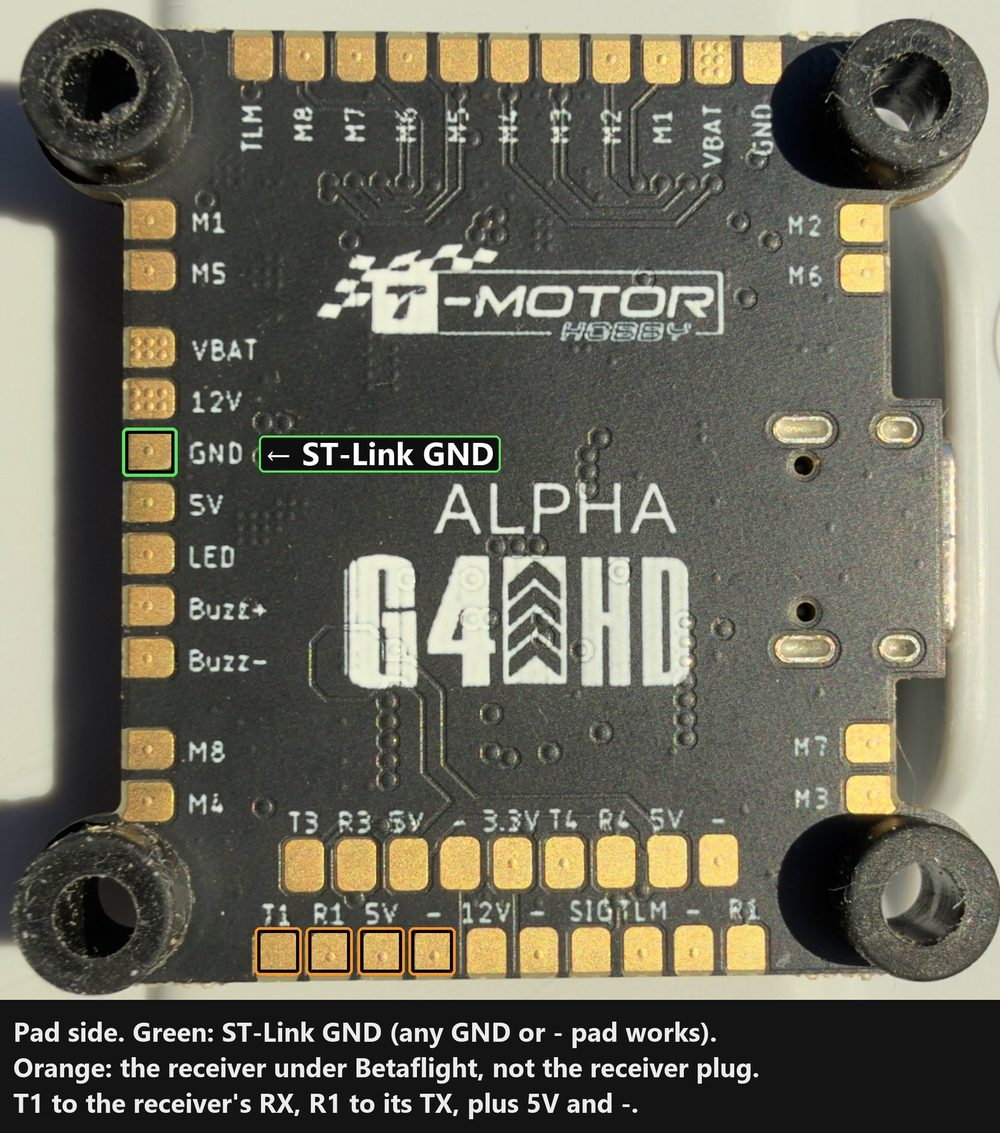
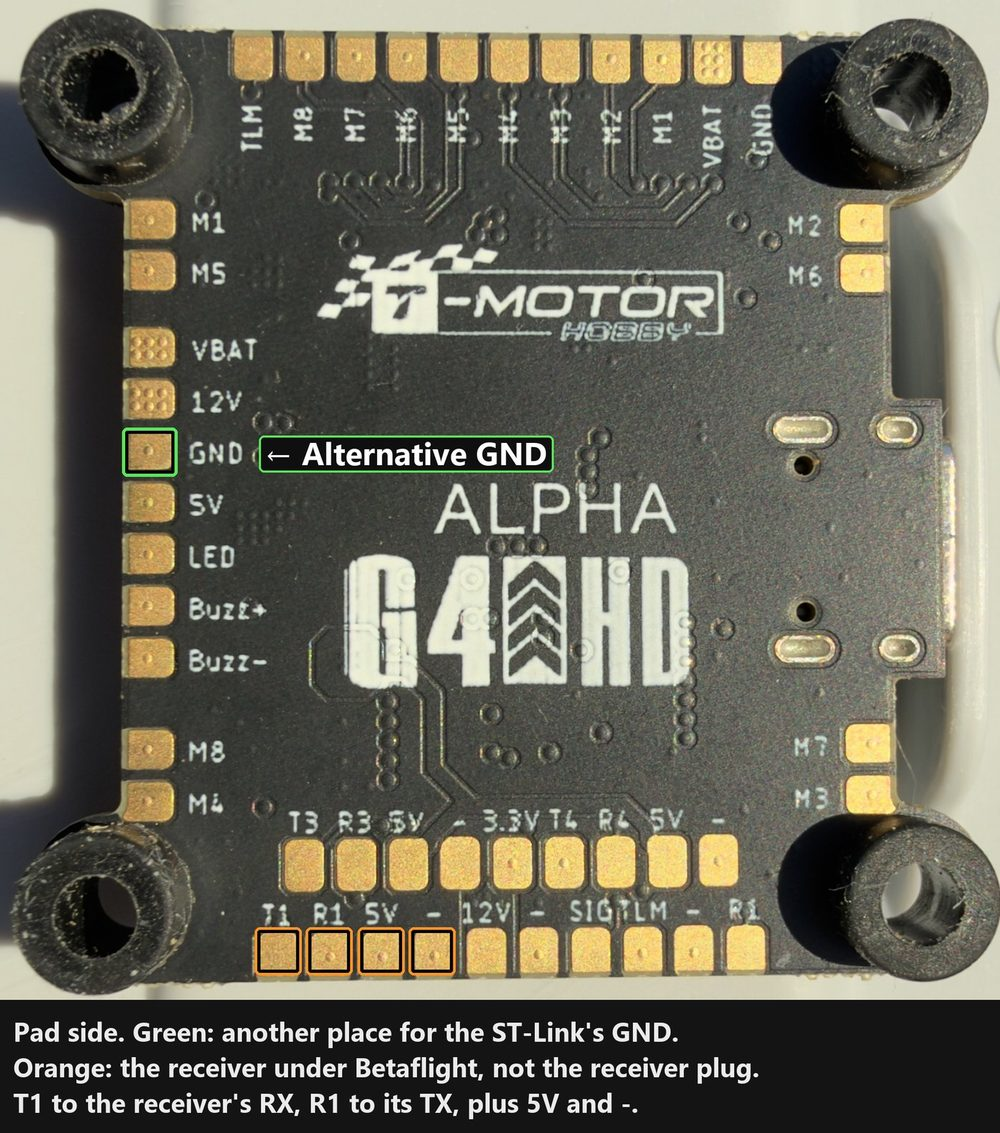
feat(alpha): wiring guide fixes and free steps
Mark the GND pad on the component side's right edge in the wiring
photo, so all three ST-Link wires go on one side; the pad side's GND
stays as the alternative. The reset button moves to its own photo,
shown only when a hot-plug connect fails, with a retry without reset.

The intro lists what the HD board gives up: the receiver plug for
CRSF, DShot2400, and Alpha itself. The ST-Link step says up front
that the board needs USB power. Captions repeat the receiver wiring.

The stage numbers are now buttons and Continue no longer waits for
the ticks. Stages that work on the chip open only once reached on the
connected chip; the saved report and the typed ERASE still gate the
one-way step.

Claude-Session: https://claude.ai/code/session_019xFnVzNtdhiGqPTavkXxX9

Changed region(s): [[0.31, 0.3707, 0.558, 0.4325], [0.217, 0.8959, 0.713, 0.9267]]

diff --git a/apps/web/src/views/AlphaView.vue b/apps/web/src/views/AlphaView.vue
@@ -1,7 +1,7 @@
 <script setup lang="ts">
 import { ALPHA_BOARDS, ALPHA_TEXTS, type AlphaText } from "@bf-migrate/core";
 import { CircleAlert, CircleCheck, Cpu, FlaskConical, LoaderCircle, Upload } from "lucide-vue-next";
-import { computed, onBeforeUnmount, ref, watch } from "vue";
+import { computed, onBeforeUnmount, ref, shallowRef, watch } from "vue";
 import { ALPHA_PHOTOS } from "../data/alpha-photos";
 import { DEMO_SCENARIOS, createDemoSource, type DemoScenarioId } from "../demo/alpha-probe";
 import { demoAlphaFirmware } from "../demo/alpha-firmware";
@@ -29,9 +29,16 @@ const STAGES: { label: string; steps: AlphaStep[] }[] = [
 ];
 
 const stageIndex = computed(() => STAGES.findIndex((stage) => stage.steps.includes(alpha.step)));
+const PROBE_STAGE = STAGES.findIndex((stage) => stage.steps.includes("probe"));
+/** Steps that must finish before the pilot can go anywhere else. */
+const BUSY: readonly AlphaStep[] = ["connecting", "working"];
+
+/** The furthest stage reached since the chip was last read. Reading a chip again starts it over. */
+const reached = shallowRef<{ readings: unknown; index: number }>({ readings: undefined, index: 0 });
 
 const introChecked = ref(false);
-const wiringChecks = ref<boolean[]>([]);
+// The ticks are the pilot's own checklist: kept when moving between steps, and never required.
+const wiringChecks = ref<boolean[]>(ALPHA_TEXTS.wiring.checks.map(() => false));
 const typed = ref("");
 const scenario = ref<DemoScenarioId>(DEMO_SCENARIOS[0]!.id);
 const resetHeld = ref(false);
@@ -41,15 +48,55 @@ const fileInput = ref<HTMLInputElement>();
 watch(
   () => alpha.step,
   (step) => {
-    if (step === "intro") introChecked.value = false;
-    if (step === "wiring") wiringChecks.value = ALPHA_TEXTS.wiring.checks.map(() => false);
     if (step === "unlock") typed.value = "";
     if (step !== "hold-reset" && step !== "connecting") resetHeld.value = false;
   },
   { immediate: true },
 );
 
-const wiringDone = computed(() => wiringChecks.value.length > 0 && wiringChecks.value.every(Boolean));
+watch(
+  [() => alpha.step, () => alpha.readings],
+  ([, readings]) => {
+    const same = reached.value.readings === readings;
+    reached.value = { readings, index: same ? Math.max(reached.value.index, stageIndex.value) : stageIndex.value };
+  },
+  { immediate: true },
+);
+
+/**
+ * The stages up to choosing the ST-Link always open. The later ones work on the connected
+ * chip, so they open only once the flow has reached them on that chip, and Unlock only while
+ * the chip is still locked.
+ */
+function canOpen(index: number): boolean {
+  if (index === stageIndex.value || BUSY.includes(alpha.step)) return false;
+  if (index <= PROBE_STAGE) return true;
+  if (!alpha.session || index > reached.value.index) return false;
+  return !STAGES[index]!.steps.includes("unlock") || locked.value;
+}
+
+function openStage(index: number): void {
+  const first = STAGES[index]?.steps[0];
+  if (first && canOpen(index)) alpha.goTo(first);
+}
+
+function stageState(index: number): "current" | "open" | "closed" {
+  if (index === stageIndex.value) return "current";
+  return canOpen(index) ? "open" : "closed";
+}
+
+const wiringDone = computed(() => wiringChecks.value.every(Boolean));
+
+/** Continue never waits for the ticks. A confirmation is recorded only when they were ticked. */
+function leaveIntro(): void {
+  if (introChecked.value) alpha.confirm("intro");
+  alpha.goTo("variant");
+}
+
+function leaveWiring(): void {
+  if (wiringDone.value) alpha.confirm("wiring");
+  alpha.goTo("probe");
+}
 const percent = computed(() => (alpha.progress && alpha.progress.total ? Math.round((alpha.progress.done / alpha.progress.total) * 100) : undefined));
 const usbPercent = computed(() => (alpha.usbProgress?.total ? Math.round((alpha.usbProgress.done / alpha.usbProgress.total) * 100) : undefined));
 const locked = computed(() => alpha.classification?.kind === "locked");
@@ -129,16 +176,23 @@ function kb(bytes: number): string {
     </div>
 
     <ol class="stages" aria-label="Progress">
-      <li v-for="(stage, index) in STAGES" :key="stage.label" :data-state="index < stageIndex ? 'done' : index === stageIndex ? 'current' : 'todo'">{{ stage.label }}</li>
+      <li v-for="(stage, index) in STAGES" :key="stage.label">
+        <button type="button" class="stage" :data-state="stageState(index)" :aria-current="index === stageIndex ? 'step' : undefined" :disabled="!canOpen(index)" @click="openStage(index)">{{ stage.label }}</button>
+      </li>
     </ol>
 
     <!-- 1. Before you start -->
     <section v-if="alpha.step === 'intro'" class="card step">
       <h2>{{ ALPHA_TEXTS.intro.title }}</h2>
       <p v-for="text in paragraphs(ALPHA_TEXTS.intro)" :key="text">{{ text }}</p>
+      <h3 class="gives-up">{{ ALPHA_TEXTS.givesUp.title }}</h3>
+      <p>{{ ALPHA_TEXTS.givesUp.paragraphs[0] }}</p>
+      <ul>
+        <li v-for="text in ALPHA_TEXTS.givesUp.paragraphs.slice(1)" :key="text">{{ text }}</li>
+      </ul>
       <label class="check"><input v-model="introChecked" type="checkbox" /> {{ ALPHA_TEXTS.intro.checks[0] }}</label>
       <div class="actions">
-        <button class="btn btn-primary" :disabled="!introChecked" @click="alpha.confirm('intro'), alpha.goTo('variant')">Continue</button>
+        <button class="btn btn-primary" @click="leaveIntro()">Continue</button>
       </div>
     </section>
 
@@ -165,13 +219,17 @@ function kb(bytes: number): string {
       </div>
       <label v-for="(text, index) in ALPHA_TEXTS.wiring.checks" :key="text" class="check"><input v-model="wiringChecks[index]" type="checkbox" /> {{ text }}</label>
       <div class="actions">
-        <button class="btn btn-primary" :disabled="!wiringDone" @click="alpha.confirm('wiring'), alpha.goTo('probe')">Continue</button>
+        <button class="btn btn-primary" @click="leaveWiring()">Continue</button>
       </div>
     </section>
 
     <!-- 3. ST-Link -->
     <section v-else-if="alpha.step === 'probe'" class="card step">
       <h2>{{ ALPHA_TEXTS.probe.title }}</h2>
+      <div class="notice notice-warn power">
+        <CircleAlert :size="18" />
+        <span><strong>{{ ALPHA_TEXTS.usbPower.title }}</strong> {{ ALPHA_TEXTS.usbPower.paragraphs[0] }}</span>
+      </div>
       <p v-for="text in paragraphs(ALPHA_TEXTS.probe)" :key="text">{{ text }}</p>
       <div class="actions">
         <button class="btn btn-primary" :disabled="!isWebUsbAvailable()" @click="selectStlink()">Select ST-Link</button>
@@ -204,6 +262,7 @@ function kb(bytes: number): string {
       <div class="actions">
         <button v-if="alpha.simulated" class="btn" :disabled="resetHeld" @click="pressReset()">{{ resetHeld ? "Holding the reset button" : "Press and hold reset (simulated)" }}</button>
         <button class="btn btn-primary" :disabled="alpha.simulated && !resetHeld" @click="alpha.connect('holdReset')">Connect</button>
+        <button class="btn" :disabled="resetHeld" @click="alpha.connect('hotplug')">Try again without reset</button>
       </div>
     </section>
 
@@ -370,25 +429,45 @@ function kb(bytes: number): string {
 }
 
 .stages li {
-  padding: 0.25rem 0.6rem;
-  border: 1px solid var(--border);
-  border-radius: 999px;
-  color: var(--muted);
   counter-increment: stage;
 }
 
-.stages li::before {
+.stage {
+  padding: 0.25rem 0.6rem;
+  border: 1px solid var(--border);
+  border-radius: 999px;
+  background: none;
+  color: var(--muted);
+  font: inherit;
+  cursor: default;
+}
+
+.stage::before {
   content: counter(stage) ". ";
 }
 
-.stages li[data-state="current"] {
+.stage[data-state="current"] {
   border-color: var(--accent);
   color: var(--text);
   font-weight: 600;
 }
 
-.stages li[data-state="done"] {
+.stage[data-state="open"] {
   color: var(--text);
+  cursor: pointer;
+}
+
+.stage[data-state="open"]:hover {
+  border-color: var(--accent);
+}
+
+.gives-up {
+  margin: 0.9rem 0 0.4rem;
+  font-size: 1rem;
+}
+
+.power {
+  margin: 0 0 0.75rem;
 }
 
 .step h2 {

diff --git a/packages/core/src/alpha/alpha.ts b/packages/core/src/alpha/alpha.ts
@@ -271,15 +271,26 @@ export const ALPHA_TEXTS = {
     ],
     checks: ["I understand that one step cannot be undone, and that this board will never run Alpha again."],
   },
+  givesUp: {
+    id: "C1b",
+    version: 1,
+    title: "What the HD board gives up",
+    paragraphs: [
+      "Most of the board carries over: OSD, power and SBUS on the DJI plug, ESC telemetry, the LED strip and the beeper. What you lose:",
+      "The receiver plug, for a CRSF or ELRS receiver. Alpha reads the receiver in software on a pin with no serial port, which Betaflight cannot do. Under Betaflight the receiver goes on the T1 and R1 pads.",
+      "DShot2400. Betaflight's RPM filtering needs bidirectional DShot, which on this chip runs at DShot300 with a 4 kHz PID loop.",
+      "Alpha itself: its configurator, its updates and any way back.",
+    ],
+  },
   wiring: {
     id: "C2",
-    version: 1,
+    version: 2,
     title: "Wire the ST-Link",
-    paragraphs: ["Tick each step when it is done."],
+    paragraphs: ["Tick each step off as you go, if it helps. Continue does not wait for the ticks."],
     checks: [
-      "Unplug the battery. Power the board from its USB-C only.",
+      "Unplug the battery. The board runs from its USB-C for the whole job.",
       "Unplug the receiver and the DJI cable. The ST-Link's clock wire uses the same pin as the receiver's signal and the DJI SBUS wire.",
-      "Solder GND first. Then ST-Link SWCLK to the lower gold pad beside the USB-C socket, and SWDIO to the upper gold pad.",
+      "Solder GND first, to the upper gold pad on the right edge (or any GND pad on the other side). Then ST-Link SWCLK to the lower gold pad beside the USB-C socket, and SWDIO to the upper one.",
       "Leave the ST-Link's 3.3V and RST pins unconnected.",
     ],
   },
@@ -292,13 +303,19 @@ export const ALPHA_TEXTS = {
       "Close STM32CubeProgrammer first. Only one program can use the ST-Link at a time.",
     ],
   },
+  usbPower: {
+    id: "C3b",
+    version: 1,
+    title: "Plug the board's USB-C into the computer first.",
+    paragraphs: ["The ST-Link's 3.3V wire is not connected, so the ST-Link does not power the board, and without power it cannot find the chip. Keep the cable in until Alpha Migrate says it is done."],
+  },
   holdReset: {
     id: "C4a",
-    version: 1,
-    title: "Hold the reset button",
+    version: 2,
+    title: "Connect while holding reset",
     paragraphs: [
-      "The board's running firmware is using the ST-Link's clock pin, so the ST-Link cannot reach the chip yet.",
-      "Press and hold the button beside the USB-C socket, then click Connect while still holding it. When the app says Connected, release the button.",
+      "The ST-Link could not reach the chip. Check the three wires and that the board's USB-C is plugged in. A board still running Alpha may also be using the ST-Link's clock pin.",
+      "Press and hold the reset button beside the USB-C socket, then click Connect while still holding it. When the app says Connected, release the button.",
     ],
   },
   confirmChip: {

diff --git a/apps/web/src/data/alpha-photos.ts b/apps/web/src/data/alpha-photos.ts
@@ -21,22 +21,20 @@ export interface AlphaPhotos {
 
 const base = `${import.meta.env.BASE_URL}alpha/`;
 
-const hdSwd: BoardPhoto = {
-  src: `${base}g4-hd/swd-pads.jpg`,
-  alt: "Component side of the Pacer G4 Alpha HD with the SWDIO pad, the SWCLK pad and the reset button marked",
-  caption: "Component side: SWDIO to the upper pad, SWCLK to the lower pad. The reset button is marked in yellow.",
-};
-
 const hdPadSide: BoardPhoto = {
   src: `${base}g4-hd/pad-side.jpg`,
   alt: "Pad side of the Pacer G4 Alpha HD with a GND pad and the T1, R1, 5V and ground pads marked",
-  caption: "Pad side: ST-Link GND in green (any GND or - pad works). The receiver goes on the orange pads.",
+  caption: "Pad side: the green pad is another place for the ST-Link's GND. The orange pads are where the receiver goes under Betaflight, not the receiver plug: T1 to its RX, R1 to its TX, plus 5V and -.",
 };
 
 export const ALPHA_PHOTOS: Partial<Record<AlphaBoard["id"], AlphaPhotos>> = {
   hd: {
     wiring: [
-      hdSwd,
+      {
+        src: `${base}g4-hd/swd-pads.jpg`,
+        alt: "Component side of the Pacer G4 Alpha HD with the SWDIO, SWCLK and GND pads marked",
+        caption: "Component side: SWDIO to the upper pad beside the USB-C socket, SWCLK to the lower one, GND to the upper pad on the right edge.",
+      },
       {
         src: `${base}g4-hd/swd-pads-closeup.jpg`,
         alt: "Close-up of the two SWD pads between the USB-C socket and the chip",
@@ -44,10 +42,14 @@ export const ALPHA_PHOTOS: Partial<Record<AlphaBoard["id"], AlphaPhotos>> = {
       },
       hdPadSide,
     ],
-    reset: hdSwd,
+    reset: {
+      src: `${base}g4-hd/reset-button.jpg`,
+      alt: "The reset button beside the USB-C socket on the Pacer G4 Alpha HD, marked in yellow",
+      caption: "The reset button, beside the USB-C socket.",
+    },
     receiver: {
       ...hdPadSide,
-      caption: "Wire the receiver to the orange pads: T1 to its RX, R1 to its TX, plus 5V and -.",
+      caption: "Wire the receiver to the orange pads: T1 to its RX, R1 to its TX, plus 5V and -. Not the receiver plug.",
     },
   },
 };

diff --git a/docs/SPEC.md b/docs/SPEC.md
@@ -260,6 +260,7 @@ Replaces the closed Alpha firmware on a T-Motor Pacer G4 Alpha with Betaflight, 
 
 - Only the HD board (`TMOTORG4ALPHAHD`) is supported. Analog is listed and disabled until it is mapped.
 - The steps are: intro, board, wiring checklist, choose the ST-Link, connect, confirm the chip, save the report, choose the firmware, unlock (the one-way step), write, then done. Every warning text has an id and a version, and the board report records which ones the pilot confirmed.
+- The intro and wiring ticks are a checklist, not a gate: Continue works without them, and a confirmation is recorded only when they were ticked. The stage numbers are buttons. The stages up to choosing the ST-Link always open; later ones open once reached on the connected chip, never ahead of it. The typed ERASE and the saved report still gate the one-way step.
 - Connecting tries hot-plug first. A stock Alpha uses the SWD clock pin as a UART, so on failure the pilot holds the board's reset button while the app attaches and arms a halt on the reset vector. The probe's RST pin is never relied on.
 - The board is classified from what the chip reports: locked (Level 1, stock or bricked), blank (an interrupted migration), programmed or unknown (Level 0), wrong chip, or protected in a way the tested run never saw. Wrong-chip and protected boards stop with nothing changed. Because classification is read from the chip each time, an interrupted run resumes at the right step.
 - Removing read protection mass-erases the chip, FETtec's unpublished bootloader included, so the board can never run Alpha again. It needs the typed word ERASE. No code path can produce Level 2. The pilot must save a board report (option bytes, protection registers, unique ID) before it; the report stays on the pilot's computer.
